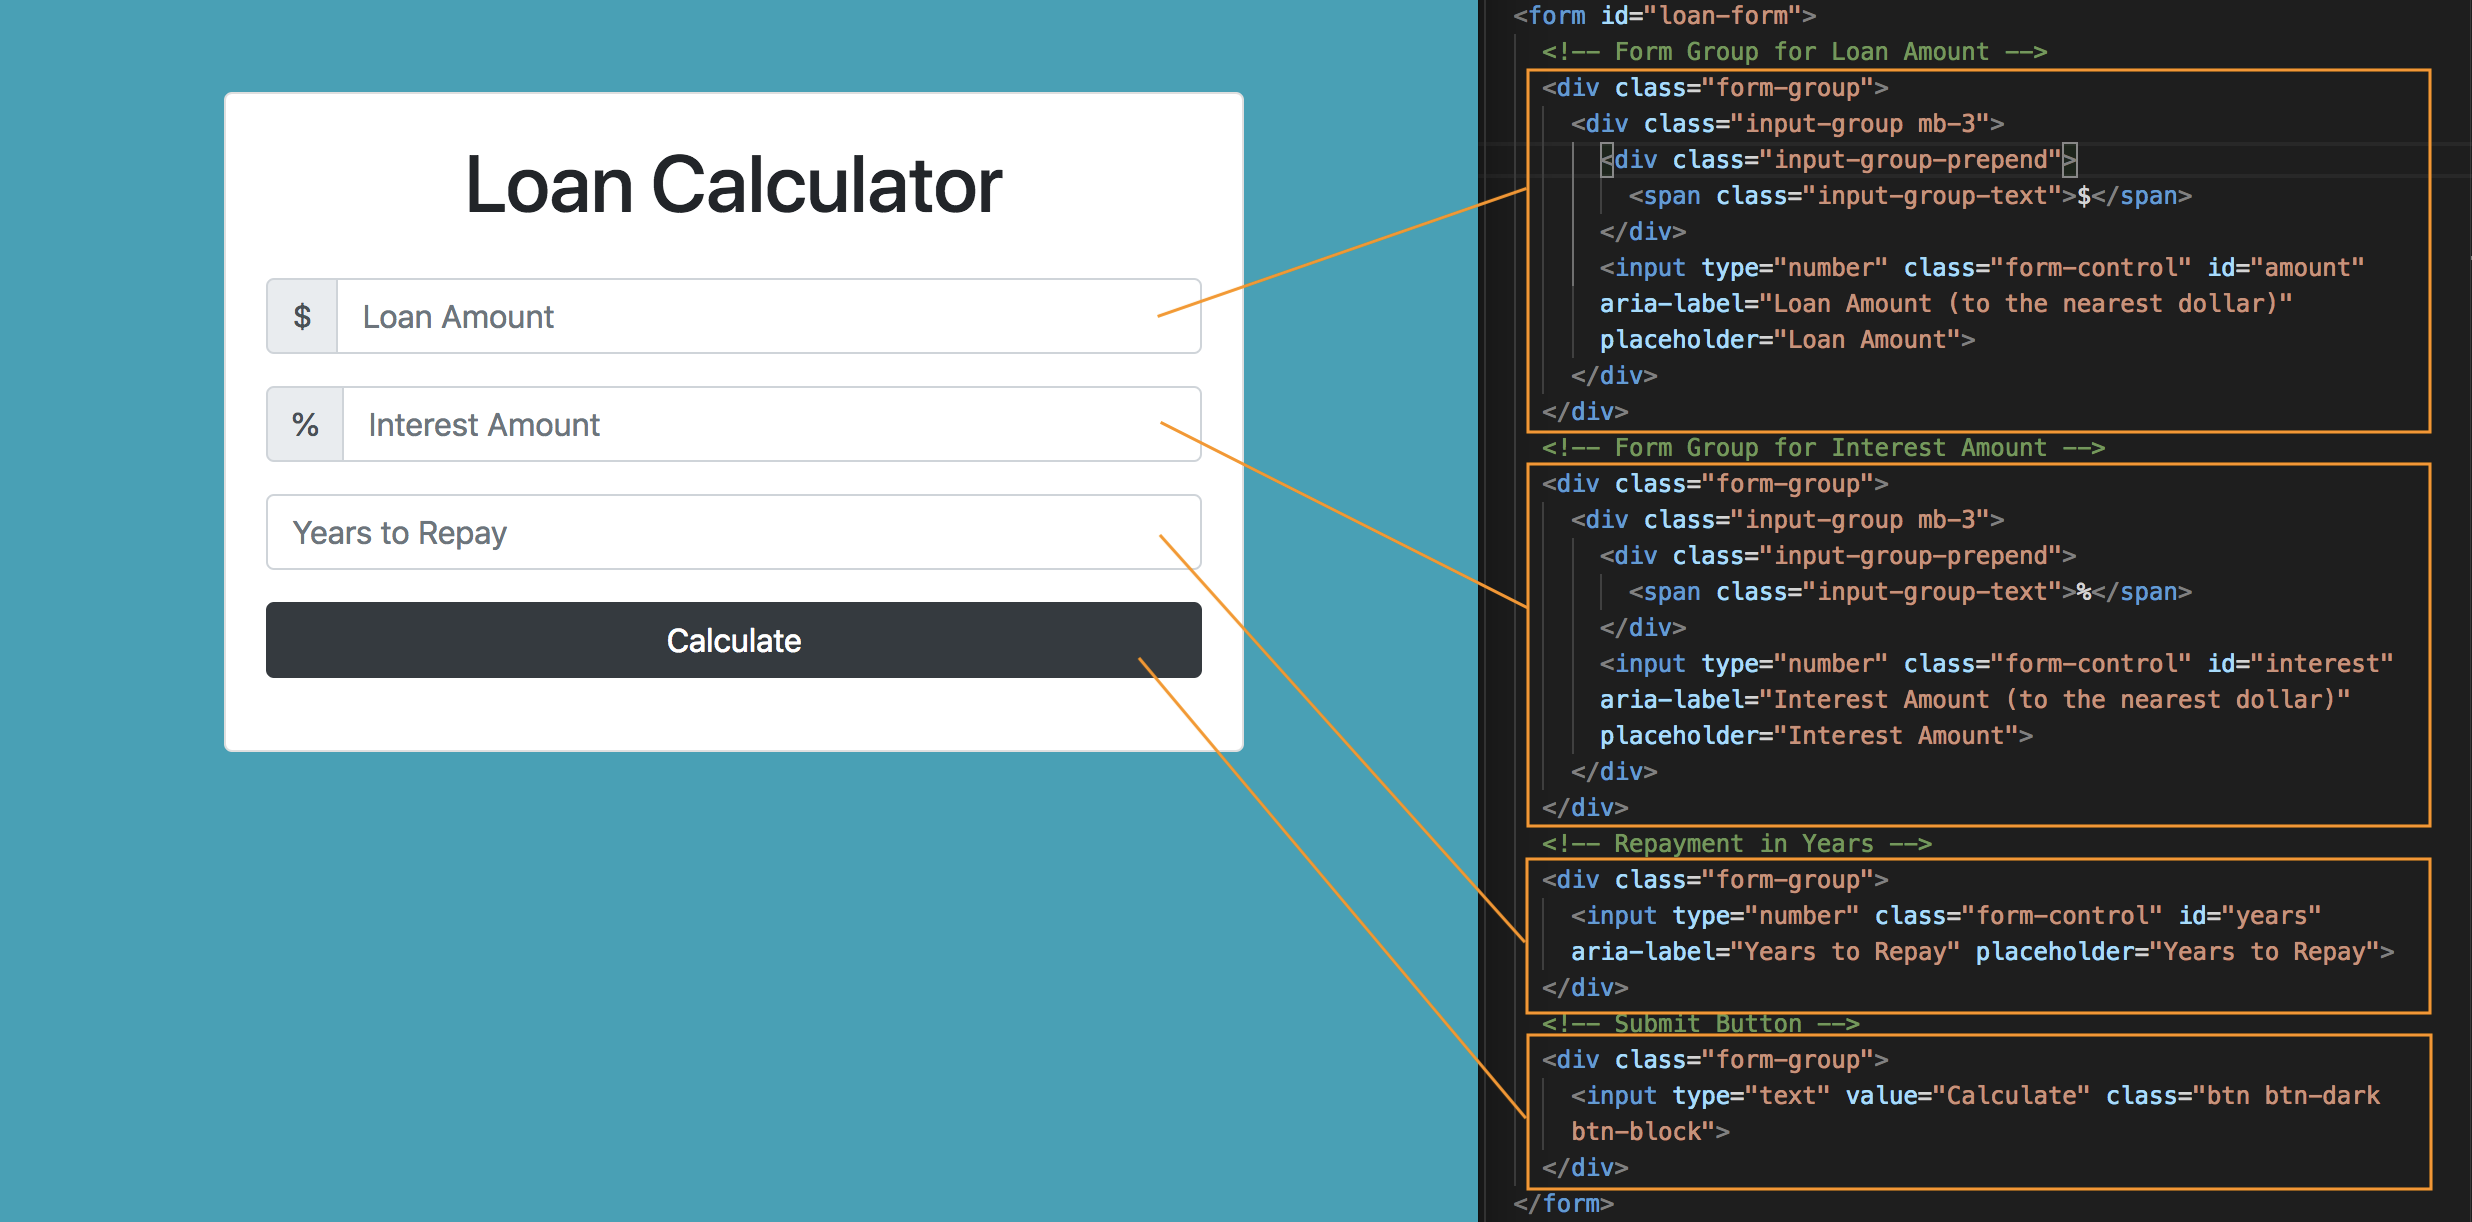
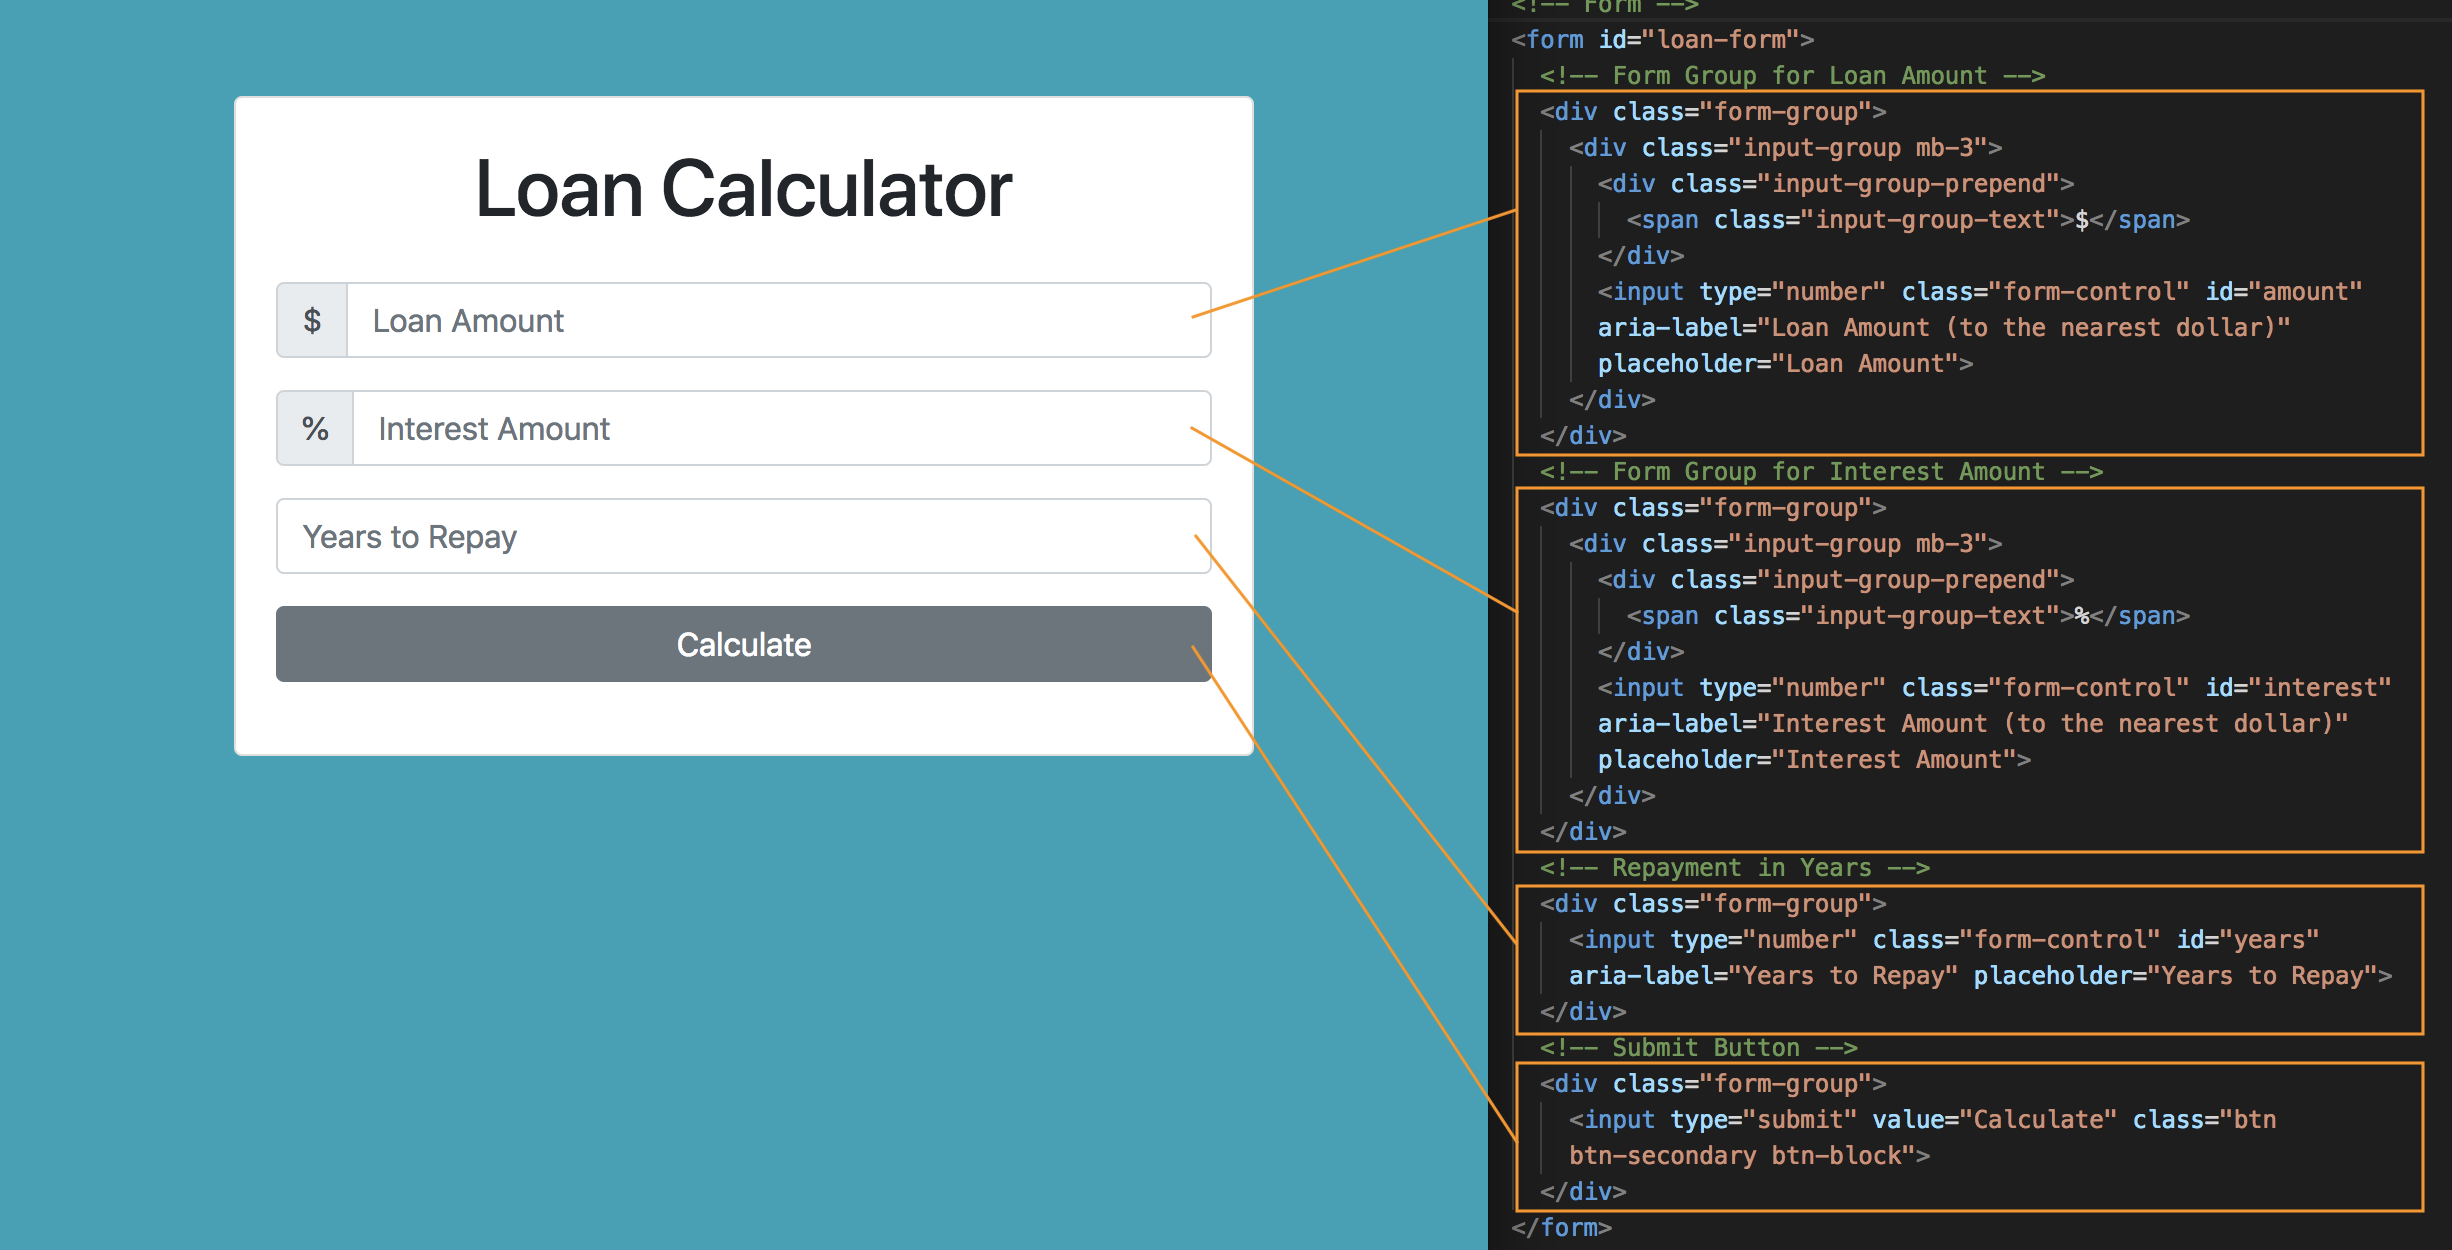
Add event listener to form submission, unit test

Changed region(s): [[0.093, 0.0, 0.9918, 1.0], [0.186, 0.1244, 0.4339, 0.1866], [0.5269, 0.6841, 0.5579, 0.7463]]

diff --git a/02_domapps/01_loancalc/loan.html b/02_domapps/01_loancalc/loan.html
@@ -42,10 +42,10 @@
               </div>
               <!-- Submit Button -->
               <div class="form-group">
-                <input type="text" value="Calculate" class="btn btn-secondary btn-block">
+                <input type="submit" value="Calculate" class="btn btn-secondary btn-block">
               </div>
             </form>
-            <hr>
+            <!-- <hr> -->
             <!-- Loader/Loading -->
             <!-- <div id="id">
               <img src="img/loading.gif" alt="Shows loading">

diff --git a/02_domapps/01_loancalc/loan.js b/02_domapps/01_loancalc/loan.js
@@ -1,0 +1,13 @@
+// Listen for Submit
+const loanForm = document.querySelector('#loan-form');
+
+// Add Event Listeners
+loanForm.addEventListener('submit', calculateResults);
+
+
+// Function to calculateResults()
+function calculateResults(e) {
+  console.log('Calculating...'); // test if function works
+
+  e.preventDefault();
+}

diff --git a/02_domapps/01_loancalc/README.md b/02_domapps/01_loancalc/README.md
@@ -72,3 +72,23 @@ Finally, for our Submit button with a type of submit.
 Then, add the results section.
 
 <kbd>![alt text](img/layout02.png "screenshot")</kbd>
+
+## Functionality to Our Calculator
+
+```
+// Listen for Submit on Form
+const loanForm = document.querySelector('#loan-form');
+
+// Add Event Listeners
+loanForm.addEventListener('submit', calculateResults);
+
+
+// Function to calculateResults()
+function calculateResults(e) {
+  console.log('Calculating...'); // test if function works
+
+  e.preventDefault();
+}
+```
+
+<kbd>![alt text](img/submitevent.png "screenshot")</kbd>
